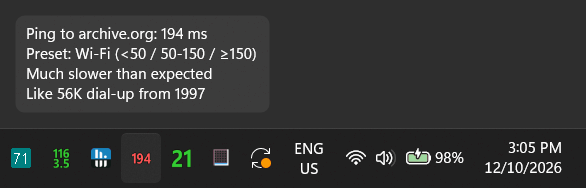
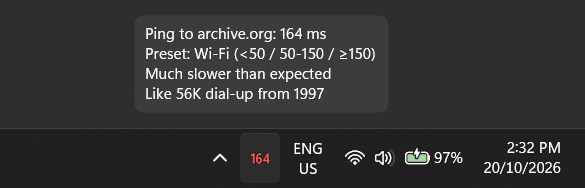
Retake tray and menu images with a single PingTray in the tray
README alt text updated to the new reading (164 ms).

Claude-Session: https://claude.ai/code/session_01QoH1wK6uj5n4A4HQFoTrE8

diff --git a/README.md b/README.md
@@ -4,7 +4,7 @@
 
 Shows your network latency as a number in the system tray.
 
-![PingTray's red 194 ms icon in the system tray, with the hover tooltip showing the colour limits and "Like 56K dial-up from 1997"](screenshots/PingTray-screenshot_tray.png)
+![PingTray's red 164 ms icon in the system tray, with the hover tooltip showing the colour limits and "Like 56K dial-up from 1997"](screenshots/PingTray-screenshot_tray.png)
 
 ## Getting started
 
